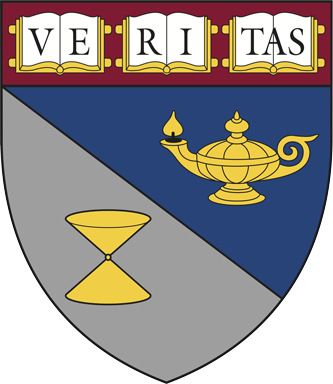
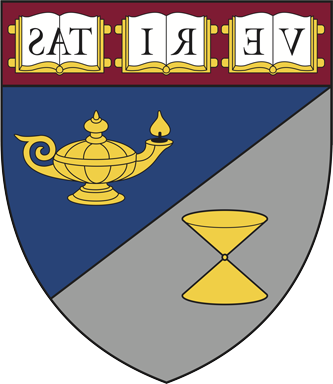
new mirror shield; fix bug that disabled commenting

diff --git a/hilrprop-theme/hilrprop.js b/hilrprop-theme/hilrprop.js
@@ -28,7 +28,7 @@ var HILRCC = {
 		}
 	
 		/* install the unload handler */
-		var inputs = jQuery("input").not("[type='hidden']").not("[class*='admin']").add("textarea").not("#gravityflow-note");
+		var inputs = jQuery("input").not("[type='hidden']").not("[class*='admin']").add("textarea").not("#gravityflow-note").not("#gravityflow-admin-action");
 		if ( inputs.length !== 0 ) {
 			jQuery(window).on("beforeunload", HILRCC.onUnload);
 			inputs.change(function() {HILRCC.formIsDirty = true;});
@@ -187,6 +187,7 @@ var HILRCC = {
     	jQuery(window).load(function() {
 			 var editLinkRow = jQuery(".hilr-edit-link");
 			 if (editLinkRow.length) {
+			 	editLinkRow.removeClass("gv-field-2-edit_link");
 				var markup=
 					"<th>Add a comment</th>" +
 					"<td colspan='3'>" +
